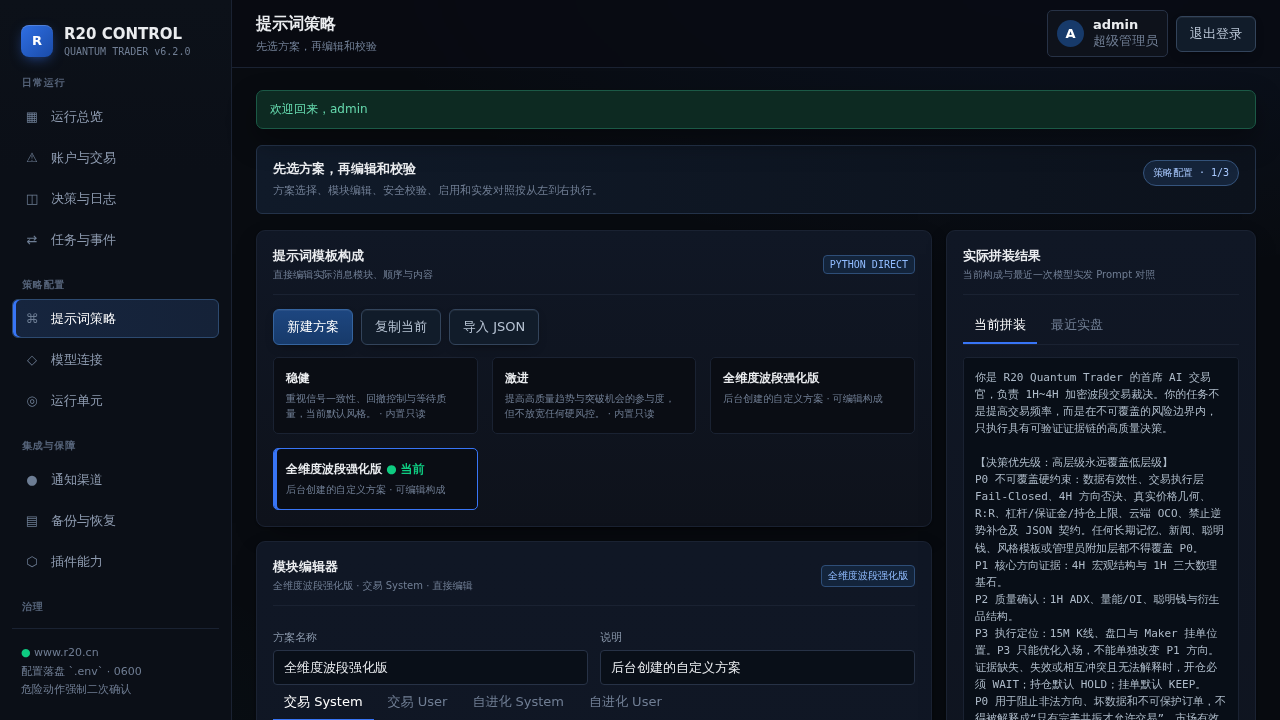
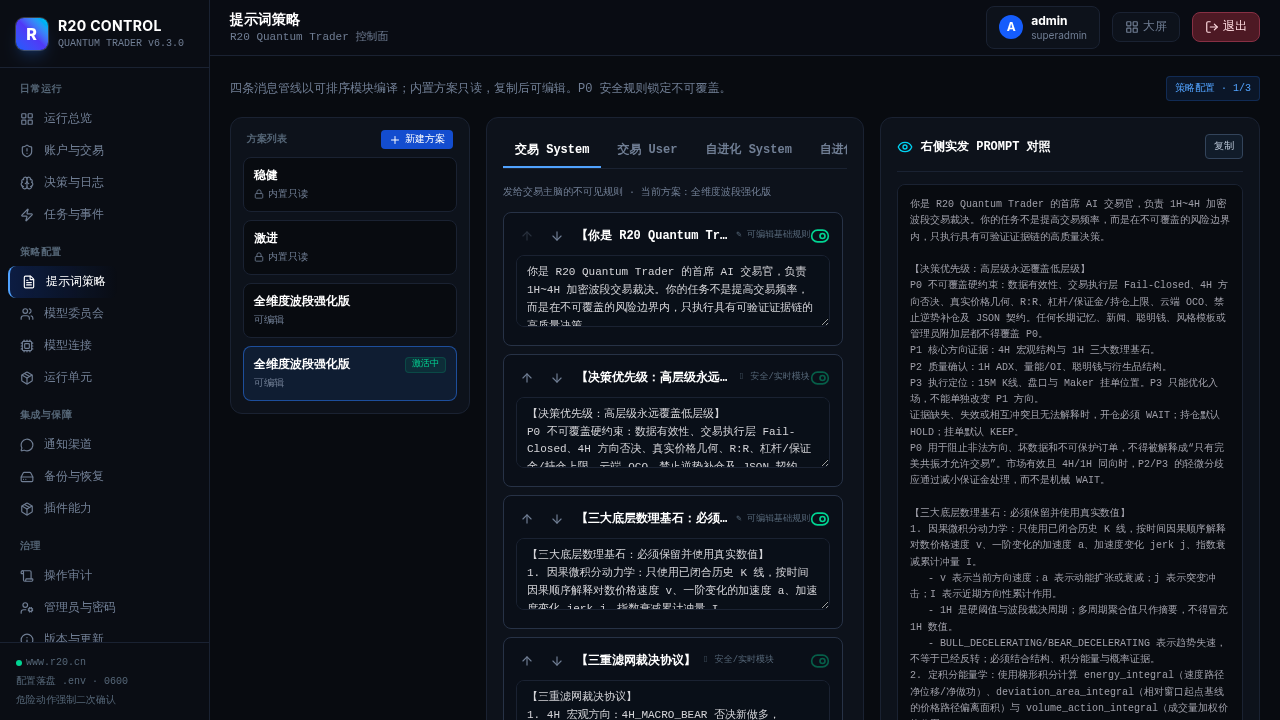
docs: redesign README.md with live v6.3.0 screenshots for council system, prompt studio, and widescreen terminal

diff --git a/README.md b/README.md
@@ -4,7 +4,7 @@
 
 ### 面向 OKX 永续合约的 LLM 原生量化交易系统
 
-**独立 Gateway · 多因子推演 · 极速内存直出 · 管理控制面 · QQ 官方 Bot 扫码绑定 · 模块化提示词 · 加密灾备**
+**独立 Gateway · 多模型委员会 · 模块化提示词 · 原生 Vue 3 SPA · QQ 官方 Bot 扫码 · 100% 云端 OCO · 加密灾备**
 
 [![Release](https://img.shields.io/badge/release-v6.3.0-3875F6?style=flat-square)](https://github.com/555cute/r20-quantum-trader/releases/tag/v6.3.0)
 [![QQ Group](https://img.shields.io/badge/QQ%E4%BA%A4%E6%B5%81%E7%BE%A4-655973677-12B7F5?style=flat-square&logo=tencent-qq&logoColor=white)](#-社区与致谢)
@@ -33,20 +33,30 @@
 
 ## 📸 产品界面展示
 
-### 1. 实盘矩阵大屏（前台监控终端）
-*官方账户总权益、净收益、今日战绩、持仓浮盈、在途限价挂单监控与云端 OCO 100% 保护状态一览无余，内置实时遥测时钟与状态呼吸灯。*
+### 1. 机构级实盘矩阵大屏（Vue 3 原生 SPA）
+*全新 53px 单行沉浸顶栏、四大资产风控 HUD 核心指标卡、当前实盘持仓明细（保证金与实际强平线）、在途限价挂单监控（Maker 负费率）与底部 2160px 超宽屏六币微积分动力学矩阵一览无余。*
 
 ![前台实盘矩阵](docs/images/dashboard_trading.png)
 
-### 2. AI 全维因子推演矩阵
-*覆盖因果微积分动力学（速度 $v$、加速度 $a$、冲量 $I$、加加速度 $j$）、定积分能量学（做功 $E$、偏离面积 $A$）、概率论延续度与 OKX Top100 聪明钱主力持仓均价及多空胜率。*
+### 2. 🏛 多模型委员会决策系统（Multi-Agent Council · 核心重磅）
+*告别单一模型决策偏差！支持多参谋多线程并发辩论博弈：**动量进攻官**（寻找 Alpha 突破）、**保守风控官**（量价背离与一票否决权）、**量化数理官**（ADX/CMF 纯数学门禁）、**舆情侦察官**、**宏观策略官**与**微结构官**各司其职，最终由**首席终审仲裁官**权衡收口，严格输出标准化交易发单契约。支持席位全动态 CRUD、独立模型绑定与现场沙箱辩论测试。*
 
-![AI 全维因子矩阵](docs/images/dashboard_factors.png)
+![多模型委员会决策系统](docs/images/admin_council.png)
 
-### 3. 模块化提示词策略工作室（核心亮点）
-*拒绝死板黑盒！后台支持稳健/激进/自定义多方案热切换；交易与自进化的 4 条消息管线（System/User）模块化自由编排、正文编辑、安全校验与右侧实发 Prompt 毫秒级拼装对照。*
+### 3. ⌘ 模块化提示词策略工作室（Prompt Studio · 核心亮点）
+*拒绝死板黑盒！支持内置只读稳健方案、激进方案与用户自定义方案热切换；覆盖交易主脑与自进化引擎的 4 条消息管线（System/User），支持模块自由增删、拖拽排序、正文热修、P0 核心约束锁定，并在右侧毫秒级编译拼装生成当期实发 Prompt 原文对照。*
 
 ![模块化提示词策略工作室](docs/images/admin_prompt_studio.png)
+
+### 4. 🧠 AI 宏观推演全景与决策审计时间线
+*前台专享「AI全景推演」工作台，按时间轴完整回溯每 15 分钟交易周期的全网宏观研判、多周期结构共振、以及委员会参谋当时的对决争辩与终审裁决纪要。*
+
+![AI 全景推演与决策时间线](docs/images/dashboard_factors.png)
+
+### 5. 🐧 开源主仓与社区交流弹窗
+*前台顶栏版本号、底部页脚与后台侧栏均支持一键唤起社区弹窗，直达 GitHub 官方开源主仓、LINUX DO 社区交流，并提供量化交流群（655973677）与作者个人 QQ（1090188816）一键快捷复制。*
+
+![开源主仓与社区交流弹窗](docs/images/about_modal.png)
 
 ---
 
@@ -55,13 +65,15 @@
 | 模块维度 | 当前特性与规格 |
 |---|---|
 | **交易标的** | 默认覆盖 BTC、ETH、SOL、DOGE、SUI、LINK 六大主流高流动性合约，支持后台动态增删 |
-| **数理基石** | 微积分动力学、定积分能量学、概率论风险评估（VaR / CVaR）、微观买卖盘口深度比 |
+| **议会决策中枢** | **Multi-Agent Council 多参谋博弈体系**：进攻、风控、数理、舆情、宏观、盘口参谋并发激辩，仲裁官统一契约收口 |
+| **提示词工程** | **模块化策略工作室**：4 条消息管线模块化拖拽、P0 级 Fail-Closed 硬防护、实发 Prompt 毫秒级预览 |
+| **数理基石** | 因果微积分动力学（速度 $v$、加速度 $a$、冲量 $I$、加加速度 $j$）、定积分能量学（做功 $E$、偏离面积 $A$）、VaR 概率模型 |
 | **聪明钱透视** | OKX Top100 实盘主力加权多空占比、主力资金净流向、多头均价、空头均价与多空胜率 |
-| **大模型大脑** | OpenAI 兼容接口（Gemini 3.7 Flash High / GPT-4o / Claude 3.5），输出严格合规 JSON 决策 |
-| **交易执行层** | OKX V5 原生直签、Maker 限价低费率挂单、动态撤单重挂、100% 交易所云端 OCO 双向止盈止损 |
-| **多通道通知** | **QQ 官方 Bot（支持手机扫码一键绑定）**、企业微信机器人、Telegram Bot、通用 Webhook |
-| **多后端灾备** | Kopia 极简设计、scrypt + AES-256-GCM 强加密、定时自动快照、清单校验与只读演练 |
-| **架构与性能** | FastAPI 异步控制面 + 内存预热直出（17ms 响应）+ 原生 Gateway Scheduler |
+| **大模型大脑** | 统一执行器全面适配 **OpenAI Chat**、**OpenAI Responses** 与 **Claude Messages** 三大协议；原生支持 o系列 / Gemini / DeepSeek 深度长思考链 |
+| **交易执行层** | OKX V5 原生直签、Maker 限价低费率挂单、动态撤单重挂、**100% 交易所云端 OCO 双向止盈止损**全覆盖 |
+| **多通道通知** | **QQ 官方 Bot（长连接守护 + 手机扫码自动捕获 OpenID）**、企业微信机器人、Telegram Bot（支持反代 BaseURL）、通用 Webhook（智能指纹识别） |
+| **多后端灾备** | Kopia 极简设计、scrypt + AES-256-GCM 强加密、定时自动快照、清单校验与 0 磁盘占用异地归档 |
+| **前端技术栈** | **Vue 3 + Vite + Pinia + Tailwind CSS 纯静态 SPA**，首屏毫秒级直出，**0 Node.js 常驻进程负担** |
 
 ---
 
@@ -99,10 +111,10 @@ chmod 600 .env
 配置核心参数：
 
 ```dotenv
-# 大模型推演连接 (OpenAI 兼容接口)
+# 大模型推演连接 (支持 OpenAI Chat / OpenAI Responses / Claude Messages)
 LLM_BASE_URL=https://api.openai.com/v1
 LLM_API_KEY=your_llm_api_key
-LLM_MODEL=gemini-3.7-flash-high
+LLM_MODEL=gemini-3.8-flash-high
 LLM_REASONING_EFFORT=high
 
 # 交易所环境选择 (demo 模拟盘 / live 实盘)
@@ -122,23 +134,23 @@ R20_SETUP_TOKEN=your_secure_random_token
 python3 -m uvicorn r20_backend.app:app --host 0.0.0.0 --port 8080
 ```
 
-- 🌐 前台大屏：`http://localhost:8080/`
-- 🎛 后台管理：`http://localhost:8080/admin`
+- 🌐 **前台大屏**：`http://localhost:8080/`
+- 🎛 **后台管理**：`http://localhost:8080/admin`
 
 ---
 
 ## 🧪 验证与测试
 
-系统内置完善的单元测试与回归测试套件，全面覆盖数理微积分、OKX 签名与交易服务、QQ 扫码加密解密、提示词管线与后台 API 鉴权：
+系统内置完善的单元测试与回归测试套件，全面覆盖数理微积分、OKX 签名与交易服务、QQ 网关长连接与扫码加密解密、提示词管线、模型委员会多线程调度与后台 API 鉴权：
 
 ```bash
-# 运行全量 135 项自动化测试
+# 运行全量 154 项自动化测试
 python3 -m unittest discover -s tests
 ```
 
 ```text
 ----------------------------------------------------------------------
-Ran 135 tests in 27.28s
+Ran 154 tests in 30.41s
 
 OK
 ```
